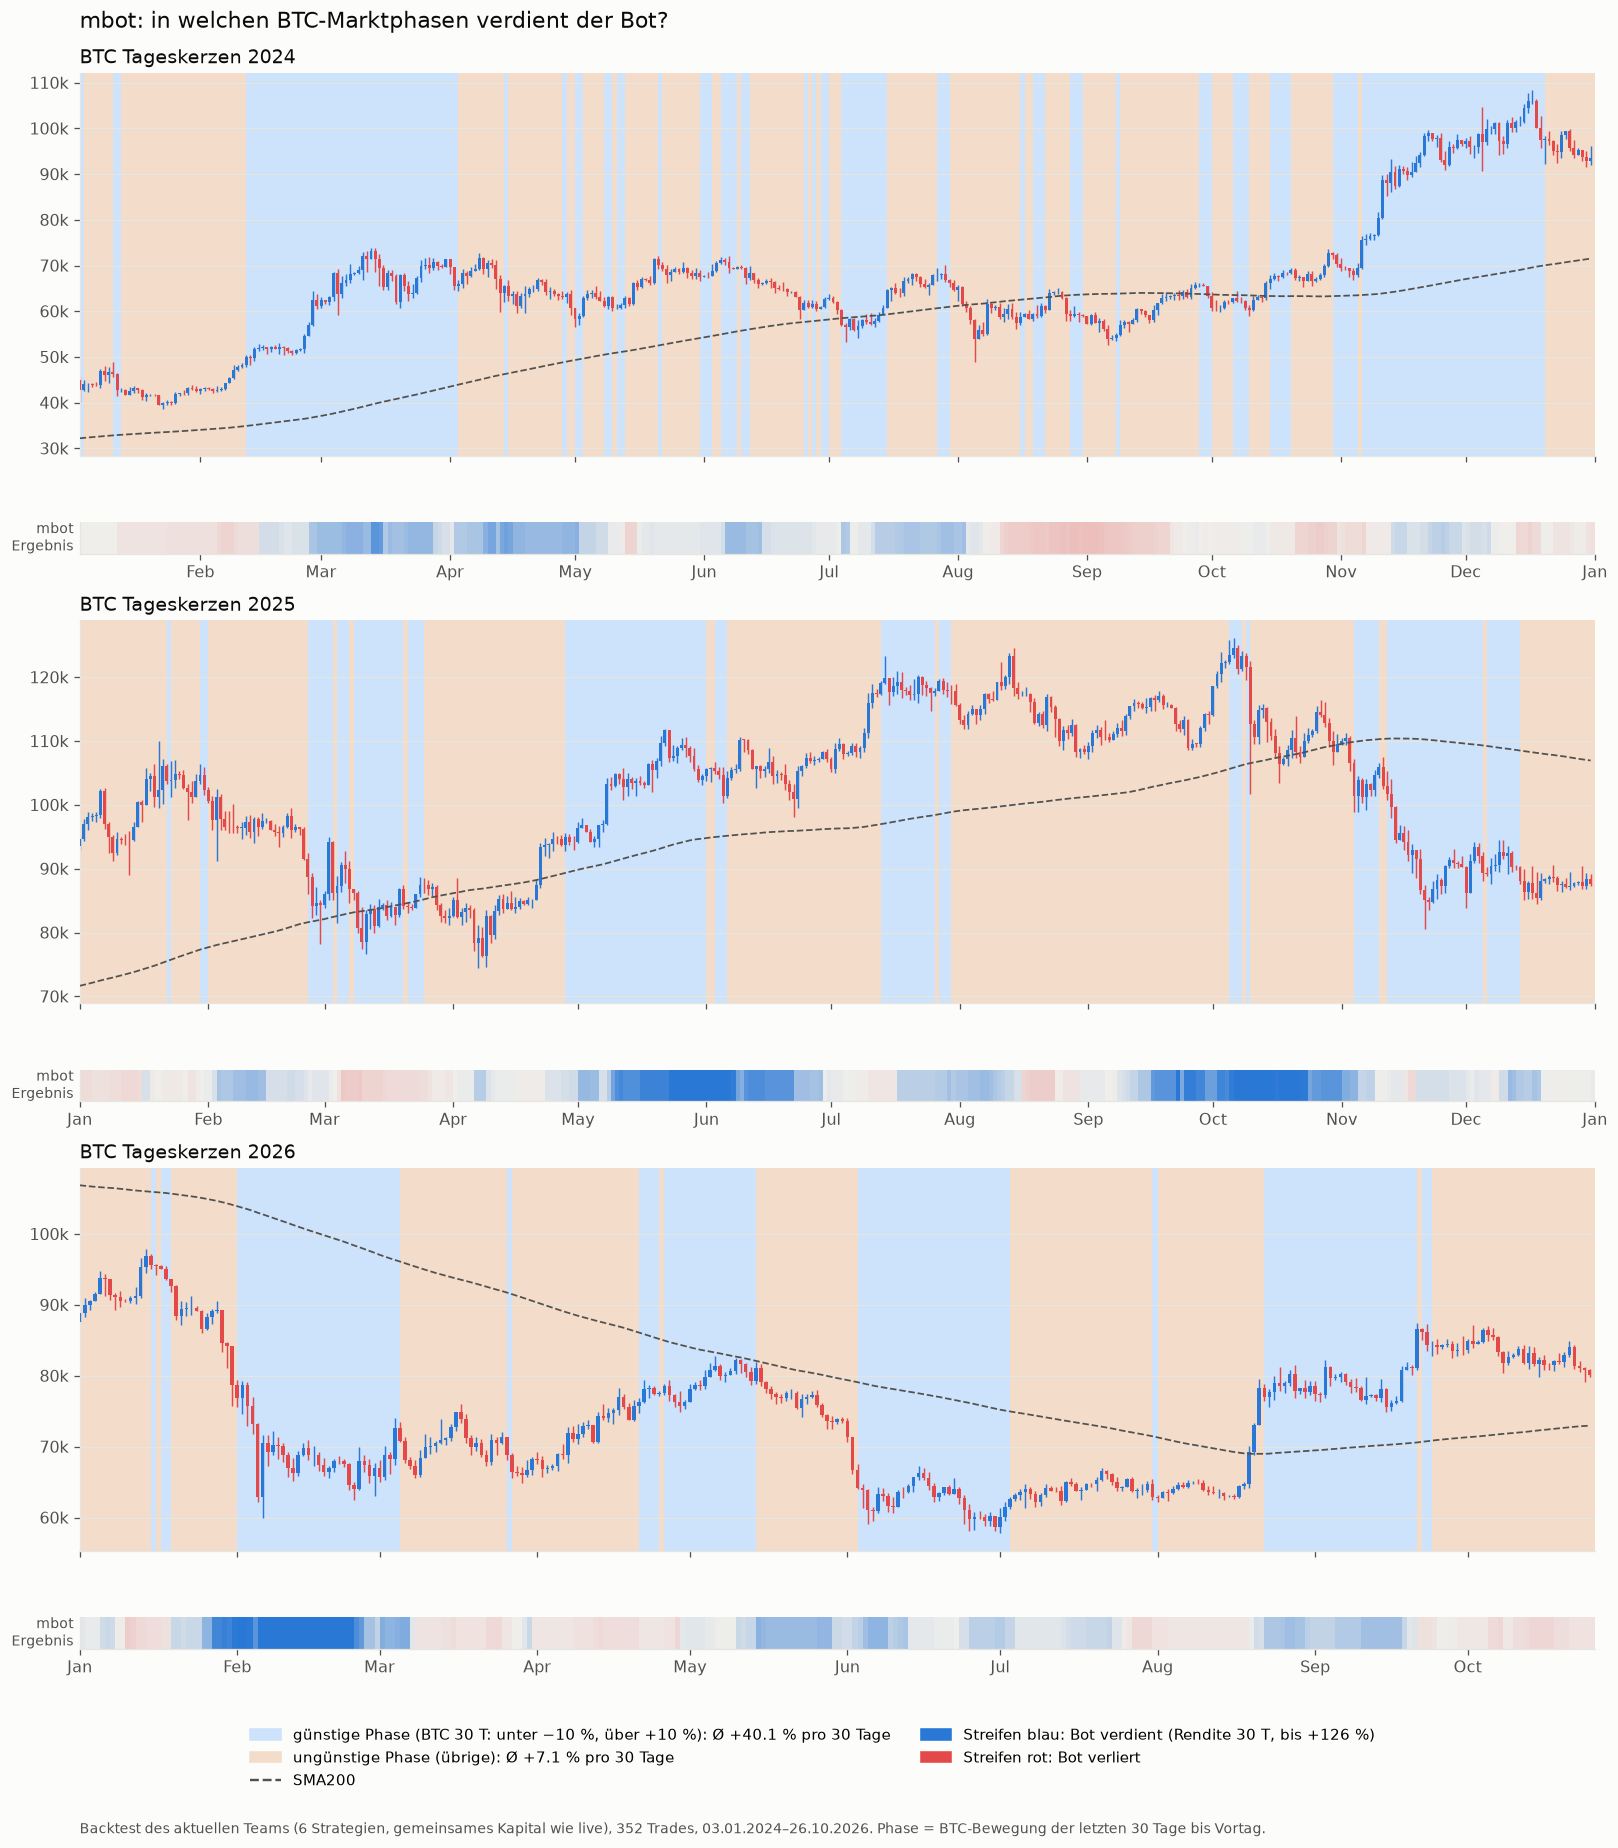
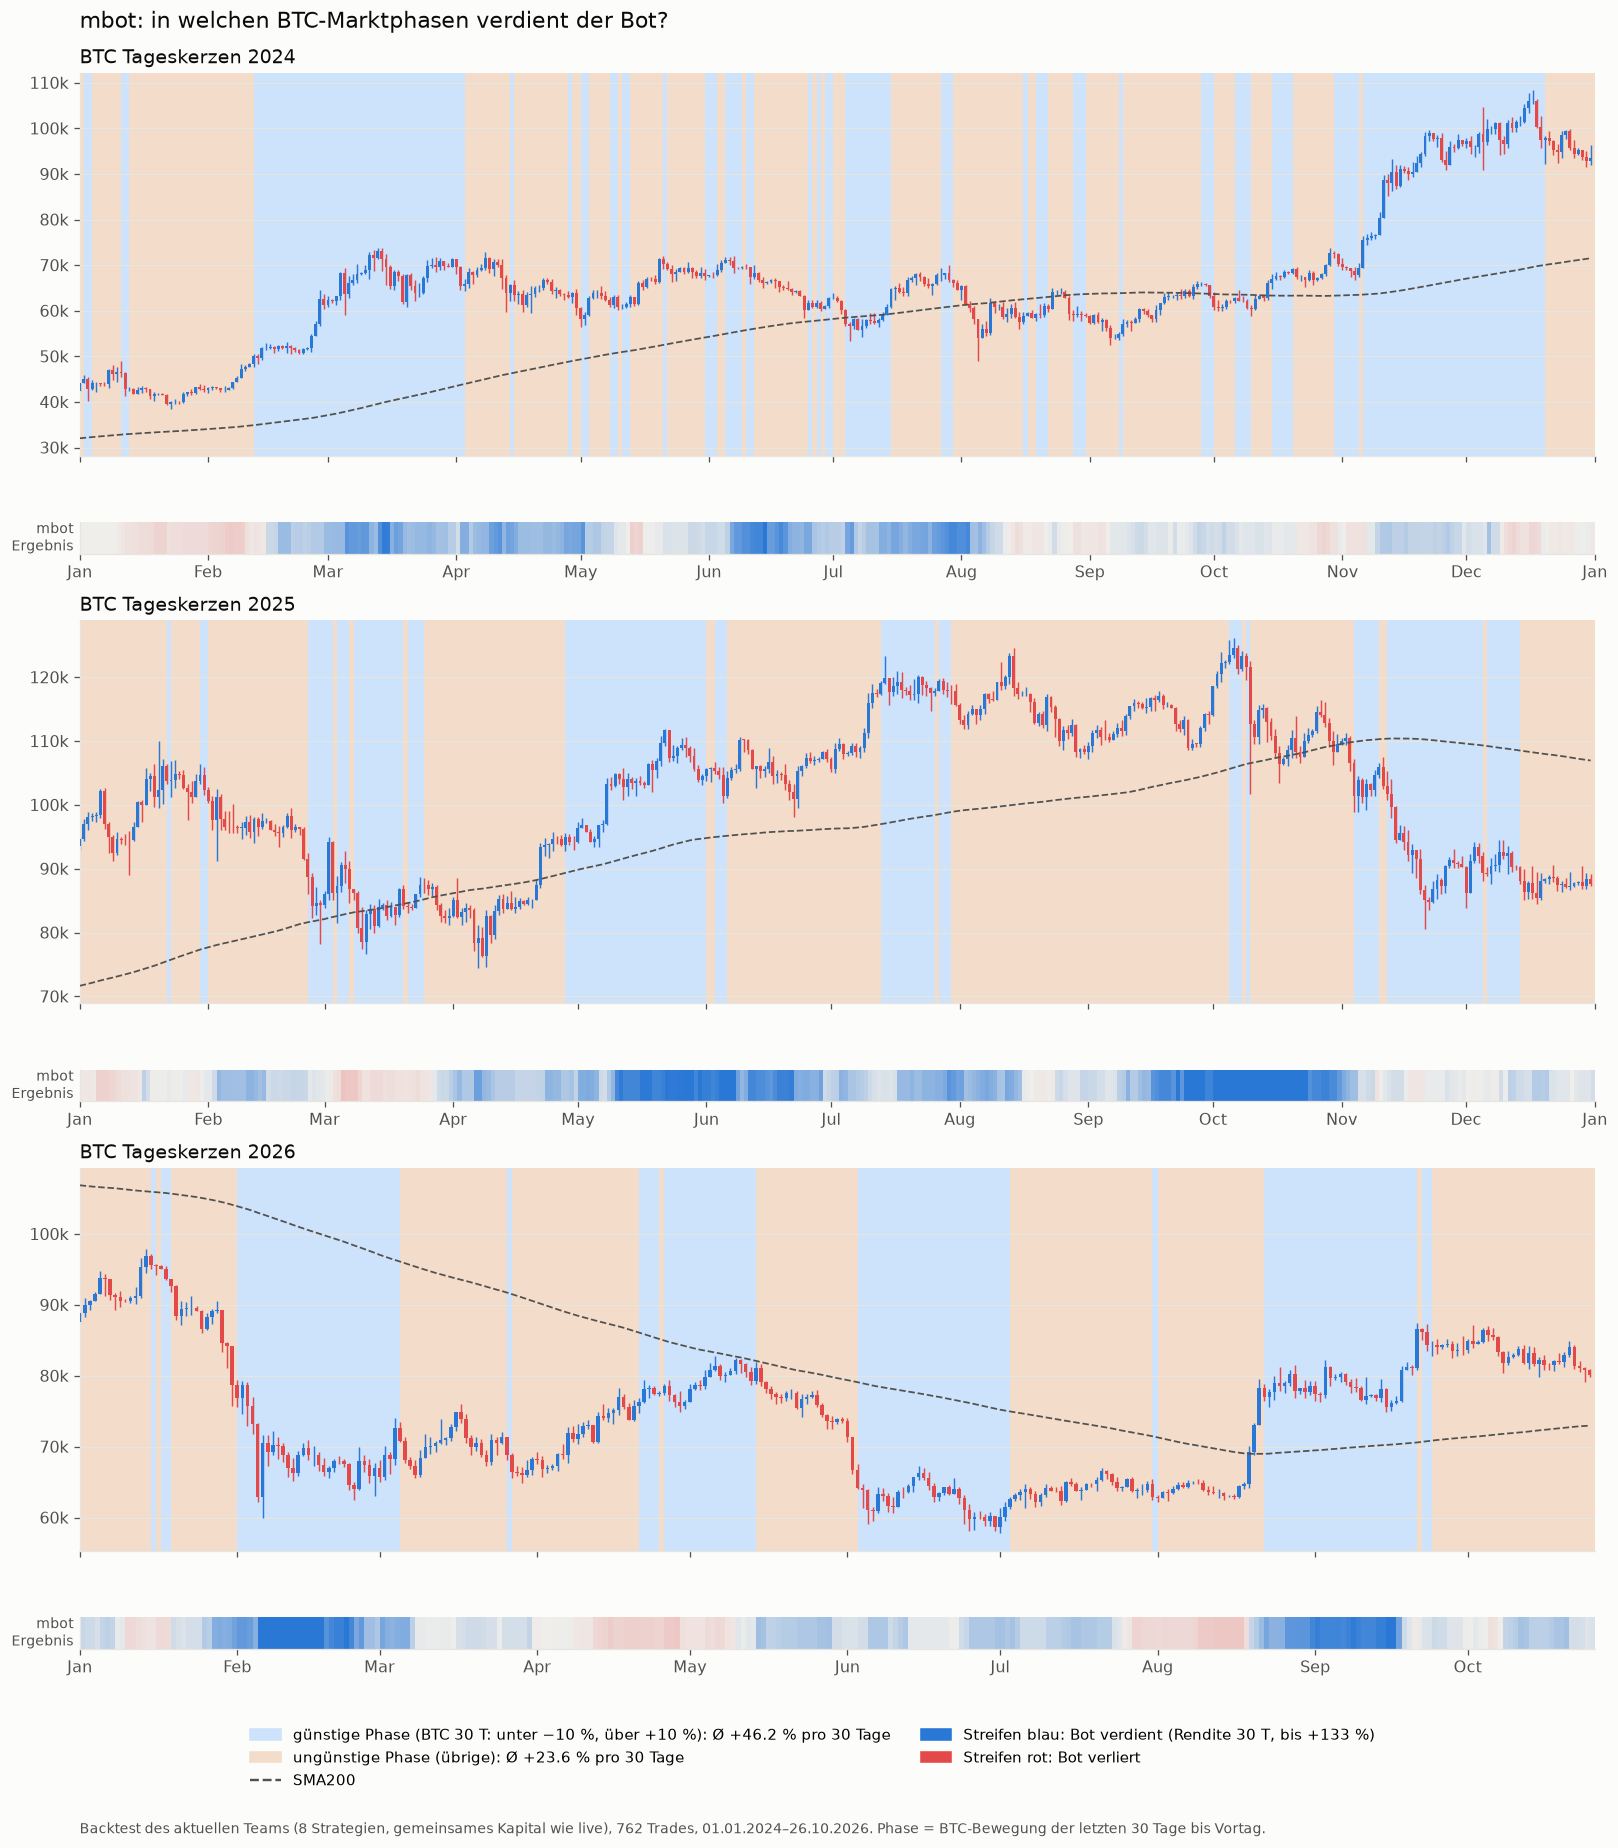
chore: aktives Portfolio = Wochenauswahl 26.10.2026 (8 Strategien), README-Marktphasen neu gerechnet
update.sh setzt settings.json auf den Git-Stand zurueck -- ohne diesen Abgleich wuerde das
Update das frische 8er-Team auf dem VPS wieder auf das alte 6er-Team zuruecksetzen.

diff --git a/README.md b/README.md
@@ -106,7 +106,7 @@ Genau dieses Muster zeigt auch die Einzelansicht:
 
 ## 🧭 Marktphasen: wann der Bot verdient
 
-Backtest des aktuellen Teams aus `settings.json` (6 Strategien, gemeinsames Kapital wie live), 352 Trades vom 03.01.2024 bis 26.10.2026. Jeder Tag ist der BTC-Marktphase am Vortag zugeordnet,
+Backtest des aktuellen Teams aus `settings.json` (8 Strategien, gemeinsames Kapital wie live), 762 Trades vom 01.01.2024 bis 26.10.2026. Jeder Tag ist der BTC-Marktphase am Vortag zugeordnet,
 gemessen an der BTC-Bewegung der letzten 30 Tage.
 
 ![BTC-Tageskerzen mit Marktphasen und Bot-Ergebnis](docs/img/marktphasen_btc.png)
@@ -115,29 +115,29 @@ gemessen an der BTC-Bewegung der letzten 30 Tage.
 
 - **Kerzen:** BTC-Tageskerzen, ein Jahr pro Zeile. Blau = Tag im Plus, rot = Tag im Minus. Gestrichelt: SMA200.
 - **Hintergrund:** BTC-Marktphase, eingefärbt nach dem Ergebnis dieses Bots.
-  - **Hellblau = günstig:** BTC in 30 Tagen unter −10 % oder über +10 %. Im Schnitt **+40,1 % pro 30 Tage**.
-  - **Beige = ungünstig:** alle übrigen Phasen. Im Schnitt **+7,1 % pro 30 Tage**.
+  - **Hellblau = günstig:** BTC in 30 Tagen unter −10 % oder über +10 %. Im Schnitt **+46,2 % pro 30 Tage**.
+  - **Beige = ungünstig:** alle übrigen Phasen. Im Schnitt **+23,6 % pro 30 Tage**.
 - **Farbstreifen unter jedem Jahr:** Rendite des Bots über die letzten 30 Tage (mit Zinseszins). Kräftiges Blau = gut verdient, Rot = Verlust.
 
 **Ergebnis nach BTC-Bewegung der letzten 30 Tage:**
 
 | BTC in 30 Tagen | Rendite pro 30 Tage | Trades | Ø Trade (vom Konto) | Trefferquote |
 |---|---|---|---|---|
-| unter −10 % (Crash oder starke Korrektur) | +26,8 % | 71 | +0,31 % | 15 % |
-| −10 bis −3 % | +0,4 % | 63 | +2,94 % | 27 % |
-| ±3 % (seitwärts) | +8,4 % | 67 | +2,92 % | 28 % |
-| +3 bis +10 % | +11,3 % | 66 | +1,89 % | 24 % |
-| über +10 % (Rally) | +49,1 % | 85 | +2,91 % | 28 % |
+| unter −10 % (Crash oder starke Korrektur) | +34,0 % | 120 | +0,92 % | 26 % |
+| −10 bis −3 % | +15,1 % | 118 | +1,03 % | 25 % |
+| ±3 % (seitwärts) | +24,0 % | 175 | +1,77 % | 32 % |
+| +3 bis +10 % | +30,3 % | 159 | +1,88 % | 36 % |
+| über +10 % (Rally) | +54,4 % | 190 | +1,78 % | 33 % |
 
 **Was man sieht:**
 
-- Der Bot braucht **große Bewegungen**, ob nach oben oder nach unten. Starke Rallys (über +10 % in 30 Tagen) bringen etwa +49 % pro 30 Tage, Crashs (unter −10 %) etwa +27 %.
-- Bei leicht fallendem BTC (−10 bis −3 %) kommt praktisch nichts heraus.
-- Die Trefferquote ist niedrig (15–28 %). Das Ergebnis entsteht aus wenigen großen Gewinnern.
-- Die besten Zeiträume: Mai–Juni 2025, September–November 2025 und Februar 2026, als BTC von 87k auf 68k fiel (+195 % in 30 Tagen).
-- Die schwächsten Zeiträume: August–September 2024 (−28 %) und März 2025.
-- Hinweis: Für SOL/1h liefert Bitget ab dem 10.08.2026 keine Kerzen im Backtest; diese Strategie fehlt dort.
-- Aktuell (26.10.2026) liegt BTC in der Phase **−10 bis −3 %**. Für diesen Bot ist das eine ungünstige Phase. Im Backtest lagen die letzten 30 Tage bei −9,6 %.
+- Team: Wochenauswahl vom 26.10.2026 (XRP/6h, ARB/4h, LTC/2h, SOL/1h, AVAX/6h, AAVE/1d, BNB/1d, ETH/1d).
+- Der Bot verdient im Backtest in allen Phasen, am meisten aber bei **großen Bewegungen**, ob nach oben oder nach unten. Starke Rallys (über +10 % in 30 Tagen) bringen etwa +54 % pro 30 Tage, Crashs (unter −10 %) etwa +34 %.
+- Am schwächsten ist er bei leicht fallendem BTC (−10 bis −3 %): etwa +15 % pro 30 Tage.
+- Die Trefferquote ist niedrig (25–36 %). Das Ergebnis entsteht aus wenigen großen Gewinnern.
+- Die besten Zeiträume: Mai–Juni 2025, September–Oktober 2025 (+164 % in 30 Tagen), Februar 2026 (+172 %) und August–September 2026.
+- Die schwächsten Zeiträume, mit −16 bis −23 %: Januar–Februar 2024, März 2025, April–Mai 2026 und Ende Juli bis August 2026.
+- Aktuell (26.10.2026) liegt BTC in der Phase **−10 bis −3 %**. Für diesen Bot ist das eine ungünstige Phase. Im Backtest lagen die letzten 30 Tage bei +14,6 %.
 
 **Einschränkung:** Das ist ein Backtest. Die Configs wurden auf Teilen dieses Zeitraums optimiert, deshalb sind die
 absoluten Zahlen zu optimistisch. Aussagekräftig ist vor allem der Vergleich der Phasen untereinander. Die Phasen
